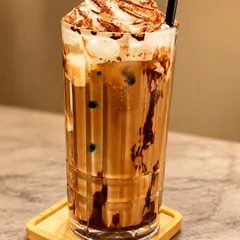
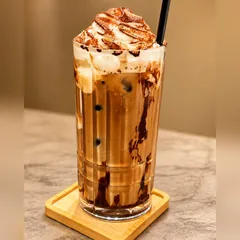
Miniatura del frappé moka con el vaso entero; versión de fotos v3

diff --git a/index.html b/index.html
@@ -225,10 +225,10 @@ class Component extends DCLogic {
     const mk = (i, c) => ({
       n: i.n, d: i.d, bg: c.bg, fg: c.fg, ns: NS[+combo(c)], ds: DS[+combo(c)],
       opts: i.s ? i.s.map(([l, p]) => l + " " + fmt(p)) : [fmt(i.p)],
-      ph: i.ph ? "photos/thumb/" + i.ph.replace(".png",".webp") + "?v=2" : "", noph: !i.ph,
+      ph: i.ph ? "photos/thumb/" + i.ph.replace(".png",".webp") + "?v=3" : "", noph: !i.ph,
       open: () => this.setState({ sel: mk0(i, c) })
     });
-    const mk0 = (i, c) => ({ n: i.n, d: i.d, bg: c.bg, fg: c.fg, opts: i.s ? i.s.map(([l, p]) => l + " " + fmt(p)) : [fmt(i.p)], ph: i.ph ? "photos/big/" + i.ph.replace(".png",".webp") + "?v=2" : "", noph: !i.ph });
+    const mk0 = (i, c) => ({ n: i.n, d: i.d, bg: c.bg, fg: c.fg, opts: i.s ? i.s.map(([l, p]) => l + " " + fmt(p)) : [fmt(i.p)], ph: i.ph ? "photos/big/" + i.ph.replace(".png",".webp") + "?v=3" : "", noph: !i.ph });
     const qs = this.norm(query).split(/[^a-z0-9]+/).filter(Boolean), q = qs.length ? qs.join(" ") : "";
     let sections = [], cur = D.find(c => c.id === cat);
     if (q) {
